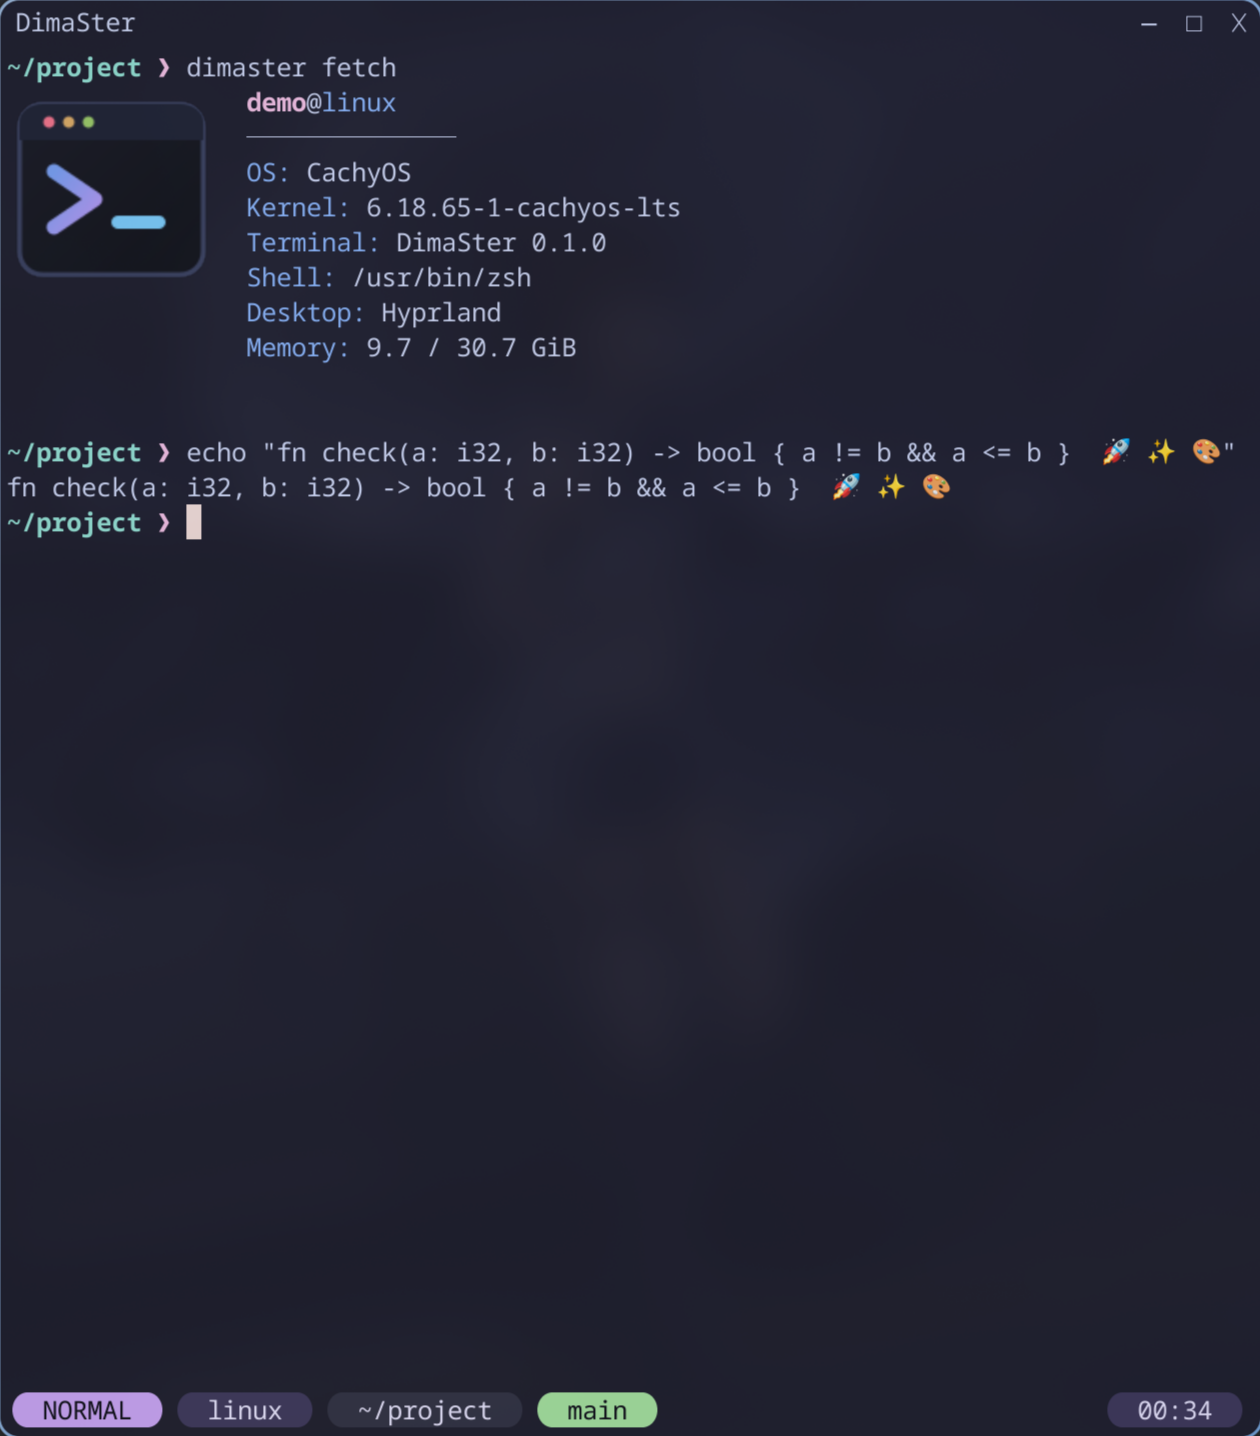
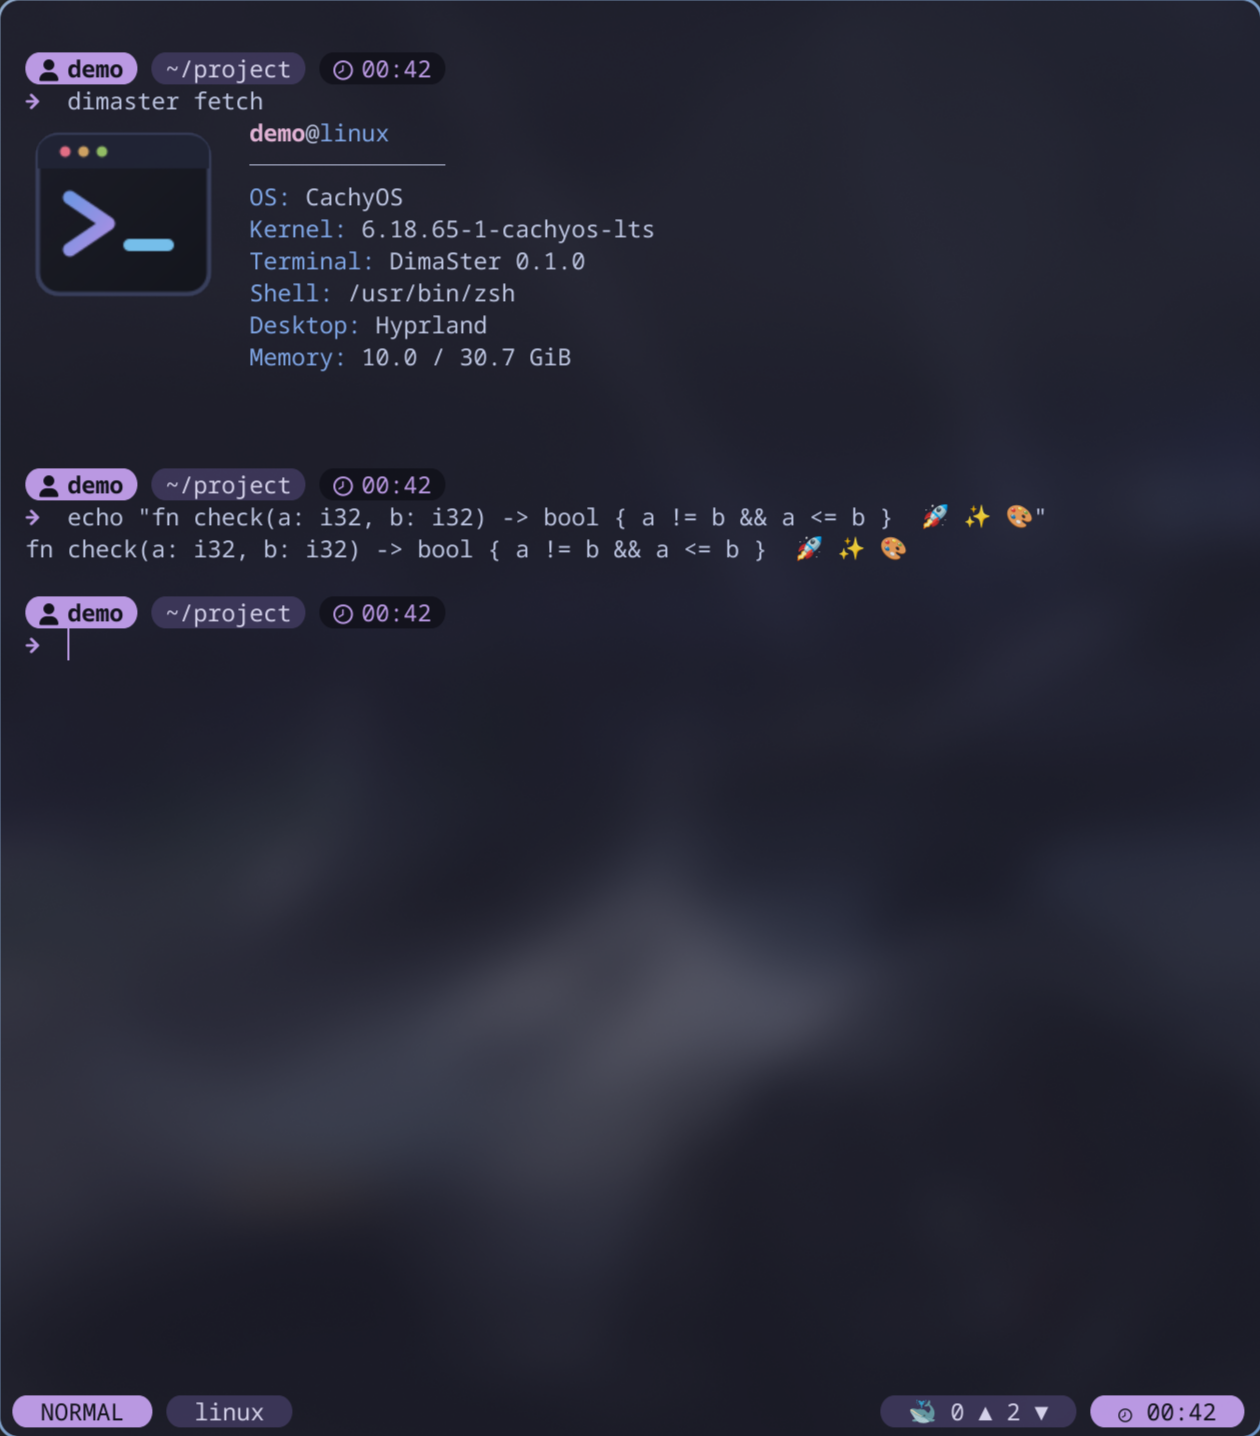
feat: стиль Catppuccin Mocha, прозрачность, starship.toml и чистый скриншот по умолчанию

diff --git a/crates/dimaster-render/src/appearance.rs b/crates/dimaster-render/src/appearance.rs
@@ -70,21 +70,21 @@ pub struct Appearance {
 impl Default for Appearance {
     fn default() -> Self {
         Self {
-            foreground: 0xd8dee9,
-            background: 0x11131a,
-            cursor: 0xe5e9f0,
+            foreground: 0xcdd6f4,
+            background: 0x1e1e2e,
+            cursor: 0xcba6f7,
             cursor_look: CursorLook::default(),
-            selection: 0x3b4261,
-            selection_text: None,
+            selection: 0xf5e0dc,
+            selection_text: Some(0x1e1e2e),
             bold: None,
             ansi: [
-                0x1d1f28, 0xf7768e, 0x9ece6a, 0xe0af68, 0x7aa2f7, 0xbb9af7, 0x7dcfff, 0xc0caf5,
-                0x565f89, 0xff899d, 0xb9f27c, 0xffc777, 0x8db0ff, 0xc7a9ff, 0xa4daff, 0xe5e9f0,
+                0x45475a, 0xf38ba8, 0xa6e3a1, 0xf9e2af, 0x89b4fa, 0xf5c2e7, 0x94e2d5, 0xbac2de,
+                0x585b70, 0xf7aec2, 0xc2ecbf, 0xfcd682, 0xaeccfc, 0xf398da, 0xb1eae1, 0xa6adc8,
             ],
-            padding: (6, 6),
+            padding: (25, 20),
             rtl: true,
             minimum_contrast: 1.0,
-            opacity: 1.0,
+            opacity: 0.65,
             top: 0,
             wallpaper: None,
             palette: BTreeMap::new(),

diff --git a/crates/dimaster-config/src/theme.rs b/crates/dimaster-config/src/theme.rs
@@ -16,14 +16,14 @@ pub struct Theme {
 impl Default for Theme {
     fn default() -> Self {
         Self {
-            foreground: 0xd8dee9,
-            background: 0x11131a,
-            cursor: 0xe5e9f0,
-            selection: 0x3b4261,
-            selection_text: None,
+            foreground: 0xcdd6f4,
+            background: 0x1e1e2e,
+            cursor: 0xcba6f7,
+            selection: 0xf5e0dc,
+            selection_text: Some(0x1e1e2e),
             ansi: [
-                0x1d1f28, 0xf7768e, 0x9ece6a, 0xe0af68, 0x7aa2f7, 0xbb9af7, 0x7dcfff, 0xc0caf5,
-                0x565f89, 0xff899d, 0xb9f27c, 0xffc777, 0x8db0ff, 0xc7a9ff, 0xa4daff, 0xe5e9f0,
+                0x45475a, 0xf38ba8, 0xa6e3a1, 0xf9e2af, 0x89b4fa, 0xf5c2e7, 0x94e2d5, 0xbac2de,
+                0x585b70, 0xf7aec2, 0xc2ecbf, 0xfcd682, 0xaeccfc, 0xf398da, 0xb1eae1, 0xa6adc8,
             ],
         }
     }

diff --git a/crates/dimaster/src/settings.rs b/crates/dimaster/src/settings.rs
@@ -223,6 +223,15 @@ pub(crate) fn cursor_shape(style: CursorStyle) -> CursorShape {
 /// Переменные для shell: из конфига и то, что нужно скриптам интеграции.
 pub(crate) fn shell_env(config: &Config) -> Vec<(String, String)> {
     let mut env = config.env.clone();
+    if !env.iter().any(|(k, _)| k == "STARSHIP_CONFIG")
+        && let Some(starship) = config_dir().map(|d| d.join("starship.toml"))
+        && starship.is_file()
+    {
+        env.push((
+            "STARSHIP_CONFIG".to_owned(),
+            starship.to_string_lossy().into_owned(),
+        ));
+    }
     if config.smart.not_found {
         env.push(("DIMASTER_NOT_FOUND".to_owned(), tr("команда не найдена")));
     }

diff --git a/crates/dimaster-config/src/config.rs b/crates/dimaster-config/src/config.rs
@@ -137,11 +137,11 @@ impl Default for Config {
             language: "auto".to_owned(),
             font_family: None,
             font_styles: Default::default(),
-            font_size: 12.0,
+            font_size: 11.0,
             font_dirs: Vec::new(),
             theme: Theme::default(),
-            padding: (6, 6),
-            cursor: CursorStyle::Block,
+            padding: (25, 20),
+            cursor: CursorStyle::Bar,
             cursor_look: CursorLook::default(),
             scrollback: 10_000,
             shell: Vec::new(),

diff --git a/crates/dimaster-config/src/scaffold/mod.rs b/crates/dimaster-config/src/scaffold/mod.rs
@@ -19,11 +19,12 @@ pub struct File {
     pub owned_by_user: bool,
 }
 
-const FIXED: [(&str, &str, bool); 12] = [
+const FIXED: [(&str, &str, bool); 13] = [
     ("draw.lua", include_str!("files/draw.lua"), true),
     ("ui.lua", include_str!("files/ui.lua"), true),
     ("statusbar.lua", include_str!("files/statusbar.lua"), true),
     ("fetch.lua", include_str!("files/fetch.lua"), true),
+    ("starship.toml", include_str!("files/starship.toml"), true),
     (
         "plugins/example.lua",
         include_str!("files/plugin.lua"),

diff --git a/crates/dimaster/src/presentation.rs b/crates/dimaster/src/presentation.rs
@@ -37,8 +37,12 @@ mod tests {
 
     #[test]
     fn hides_chrome_and_enlarges_font() {
-        let shown = derive(&Config::default(), 1000);
-        assert_eq!((shown.font_size, shown.padding.0), (16.0, 100));
+        let base = Config::default();
+        let shown = derive(&base, 1000);
+        assert_eq!(
+            (shown.font_size, shown.padding.0),
+            (base.font_size + ZOOM, 100)
+        );
         assert!(!shown.scrollbar);
         assert_eq!(shown.window.decorations, Decorations::None);
     }

diff --git a/crates/dimaster-config/src/window.rs b/crates/dimaster-config/src/window.rs
@@ -51,9 +51,9 @@ pub struct WindowConfig {
 impl Default for WindowConfig {
     fn default() -> Self {
         Self {
-            decorations: Decorations::Own,
-            opacity: 1.0,
-            blur: false,
+            decorations: Decorations::None,
+            opacity: 0.65,
+            blur: true,
             background_image: None,
             background_opacity: 0.3,
             background_dir: None,

diff --git a/docs/lua/settings/appearance.md b/docs/lua/settings/appearance.md
@@ -6,6 +6,6 @@
 |---|---|---|
 | `theme` | имя темы | нет |
 | `colors` | таблица цветов поверх темы (см. [Темы](../themes/themes.md)) | нет |
-| `padding` | число или `{ x = , y = }`, пиксели, 0–500 | `6` |
+| `padding` | число или `{ x = , y = }`, пиксели, 0–500 | `{ x = 25, y = 20 }` |
 | `minimum_contrast` | минимальный контраст текста к фону, 1.0–21.0 | `1.0` |
-| `cursor` | `"block"`, `"underline"`, `"bar"` или таблица — см. [Курсор](../interface/cursor.md) | `"block"` |
+| `cursor` | `"block"`, `"underline"`, `"bar"` или таблица — см. [Курсор](../interface/cursor.md) | `"bar"` |

diff --git a/docs/lua/settings/window.md b/docs/lua/settings/window.md
@@ -4,9 +4,9 @@
 
 | Ключ | Тип и значения | По умолчанию |
 |---|---|---|
-| `decorations` | `"own"`, `"system"`, `"none"` | `"own"` |
-| `opacity` | 0.0–1.0 | `1.0` |
-| `blur` | просить композитор размыть фон | `false` |
+| `decorations` | `"own"`, `"system"`, `"none"` | `"none"` |
+| `opacity` | 0.0–1.0 | `0.65` |
+| `blur` | просить композитор размыть фон | `true` |
 | `background_image` | путь, понимает `~/` | нет |
 | `background_dir` | каталог: случайный фон из него | нет |
 | `background_opacity` | заметность картинки, 0.0–1.0 | `0.3` |

diff --git a/docs/lua/settings/font.md b/docs/lua/settings/font.md
@@ -6,7 +6,7 @@
 |---|---|---|
 | `family` | имя семейства | из fontconfig |
 | `bold`, `italic`, `bold_italic` | отдельные семейства для начертаний | то же, что `family` |
-| `size` | пункты, 4–200 | `12` |
+| `size` | пункты, 4–200 | `11` |
 | `line_height` | множитель, 0.8–2.0 | `1.0` |
 | `ligatures` | `true` / `false` | `true` |
 | `features` | список OpenType-фич (`"-calt"`, `"ss01"`) | `{}` |
